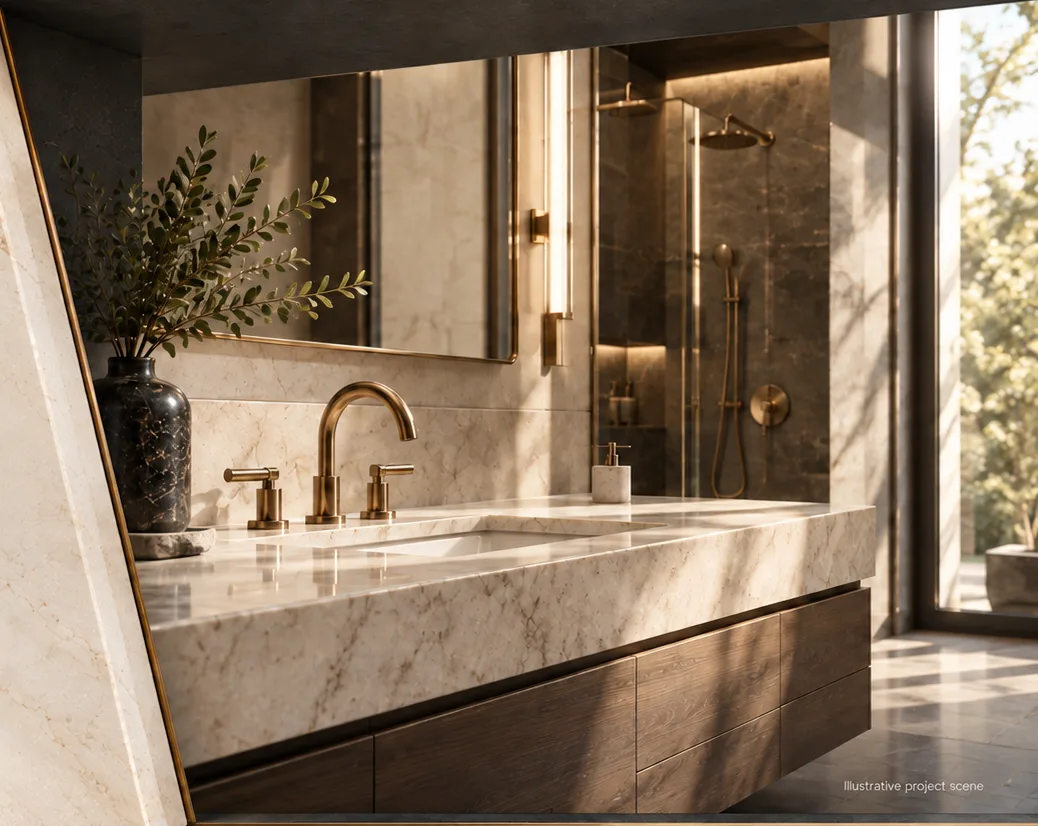
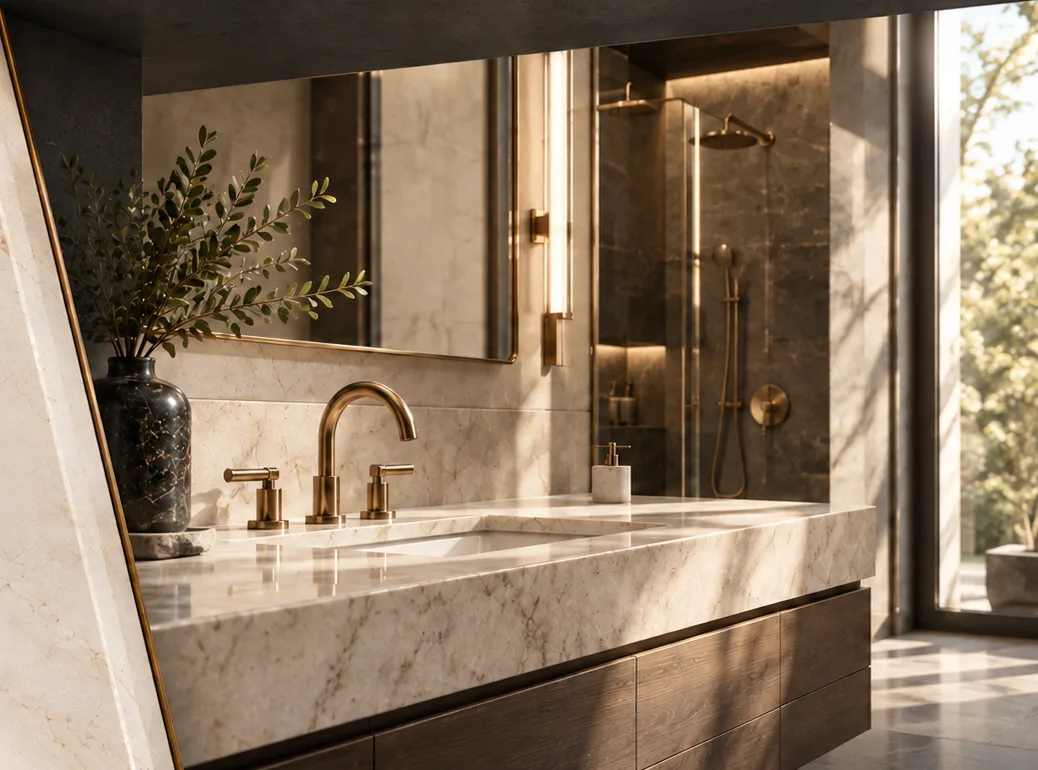
Refine mobile, wordmark, OG image and no-JS form fallback
- Transparent wordmark (colour-to-alpha vs. the original stone) for UI surfaces
- OG image from the approved logo area at its native position
- Inquiry API accepts urlencoded no-JS posts and redirects with a status
- Mobile call bar waits until the hero scrolls away on Home
- Standard section: copy before image on mobile; crop out baked caption
- Stock photography toned to the palette; looser reveal threshold

diff --git a/app/api/inquiry/route.ts b/app/api/inquiry/route.ts
@@ -1,5 +1,5 @@
-import { company } from "../../../content/company";
-import { formatInquiryEmail, isLikelySpam, validateInquiry } from "../../../lib/inquiry";
+import { company } from "@/content/company";
+import { formatInquiryEmail, isLikelySpam, validateInquiry } from "@/lib/inquiry";
 
 export const runtime = "nodejs";
 
@@ -39,6 +39,14 @@ function json(status: number, body: Record<string, unknown>): Response {
   return Response.json(body, { status, headers: { "Cache-Control": "no-store" } });
 }
 
+type Outcome = "sent" | "invalid" | "error" | "unavailable" | "limited";
+
+/** No-JS form posts get a redirect back to /contact with a status, never raw JSON. */
+function redirectBack(request: Request, outcome: Outcome): Response {
+  const url = new URL(`/contact?status=${outcome}#request`, request.url);
+  return Response.redirect(url, 303);
+}
+
 /** Reads the body as text, giving up (null) once it exceeds `limit` bytes. */
 async function readCapped(request: Request, limit: number): Promise<string | null> {
   if (!request.body) return "";
@@ -65,38 +73,52 @@ async function readCapped(request: Request, limit: number): Promise<string | nul
 }
 
 export async function POST(request: Request): Promise<Response> {
+  const contentType = (request.headers.get("content-type") ?? "").trim();
+  // The form posts JSON via fetch; without JavaScript the browser posts urlencoded.
+  const isFormPost = /^application\/x-www-form-urlencoded\b/i.test(contentType);
+  const fail = (status: number, outcome: Outcome, body: Record<string, unknown>) =>
+    isFormPost ? redirectBack(request, outcome) : json(status, body);
+
   const apiKey = process.env.RESEND_API_KEY;
   const to = process.env.INQUIRY_TO_EMAIL;
-  if (!apiKey || !to) return json(503, { ok: false, error: UNAVAILABLE });
+  if (!apiKey || !to) return fail(503, "unavailable", { ok: false, error: UNAVAILABLE });
 
   if (rateLimited(clientIp(request), Date.now())) {
-    return json(429, { ok: false, error: `Too many requests. Please try again later or call ${company.phone.display}.` });
+    return fail(429, "limited", {
+      ok: false,
+      error: `Too many requests. Please try again later or call ${company.phone.display}.`,
+    });
   }
 
-  const contentType = request.headers.get("content-type") ?? "";
-  if (!/^application\/json\b/i.test(contentType.trim())) {
+  if (!isFormPost && !/^application\/json\b/i.test(contentType)) {
     return json(415, { ok: false, error: "Requests must be sent as JSON." });
   }
 
   const declaredLength = Number(request.headers.get("content-length"));
   if (Number.isFinite(declaredLength) && declaredLength > MAX_BODY_BYTES) {
-    return json(413, { ok: false, error: "Your request is too large." });
+    return fail(413, "invalid", { ok: false, error: "Your request is too large." });
   }
   const bodyText = await readCapped(request, MAX_BODY_BYTES);
-  if (bodyText === null) return json(413, { ok: false, error: "Your request is too large." });
+  if (bodyText === null) return fail(413, "invalid", { ok: false, error: "Your request is too large." });
 
   let raw: unknown;
-  try {
-    raw = JSON.parse(bodyText);
-  } catch {
-    return json(400, { ok: false, error: "We couldn't read your request." });
+  if (isFormPost) {
+    // A no-JS visitor can't report how long the form was open, so this path
+    // relies on the honeypot alone for spam filtering.
+    raw = { ...Object.fromEntries(new URLSearchParams(bodyText)), elapsedMs: 3000 };
+  } else {
+    try {
+      raw = JSON.parse(bodyText);
+    } catch {
+      return json(400, { ok: false, error: "We couldn't read your request." });
+    }
   }
 
   // Don't tip off bots: pretend success, send nothing.
-  if (isLikelySpam(raw)) return json(200, { ok: true });
+  if (isLikelySpam(raw)) return isFormPost ? redirectBack(request, "sent") : json(200, { ok: true });
 
   const result = validateInquiry(raw);
-  if (!result.ok) return json(400, { ok: false, errors: result.errors });
+  if (!result.ok) return fail(400, "invalid", { ok: false, errors: result.errors });
 
   const { subject, text } = formatInquiryEmail(result.data);
   try {
@@ -116,13 +138,13 @@ export async function POST(request: Request): Promise<Response> {
     if (!response.ok) {
       // Status only: never log the customer's details or the API key.
       console.error(`[inquiry] Resend responded with status ${response.status}`);
-      return json(502, { ok: false, error: SEND_FAILED });
+      return fail(502, "error", { ok: false, error: SEND_FAILED });
     }
   } catch (error) {
     const reason = error instanceof Error ? error.name : "UnknownError";
     console.error(`[inquiry] Resend request failed: ${reason}`);
-    return json(502, { ok: false, error: SEND_FAILED });
+    return fail(502, "error", { ok: false, error: SEND_FAILED });
   }
 
-  return json(200, { ok: true });
+  return isFormPost ? redirectBack(request, "sent") : json(200, { ok: true });
 }

diff --git a/app/contact/page.tsx b/app/contact/page.tsx
@@ -19,12 +19,22 @@ const NEXT_STEPS = [
   "You get a clear scope before any work begins.",
 ];
 
+const STATUS_NOTICES: Record<string, { tone: "ok" | "warn"; text: string }> = {
+  sent: { tone: "ok", text: "Request received. We’ll be in touch shortly. For anything urgent, please call." },
+  invalid: { tone: "warn", text: "Some details were missing or didn’t look right. Please check the form, or call us." },
+  error: { tone: "warn", text: "We couldn’t send your request just now. Please call us instead." },
+  unavailable: { tone: "warn", text: "Online requests aren’t available right now. Please call or email us." },
+  limited: { tone: "warn", text: "Too many requests from this connection. Please call us instead." },
+};
+
 type Props = {
   searchParams: Promise<{ [key: string]: string | string[] | undefined }>;
 };
 
 export default async function ContactPage({ searchParams }: Props) {
-  const { service } = await searchParams;
+  const { service, status } = await searchParams;
+  // Set by /api/inquiry after a no-JavaScript form post.
+  const notice = typeof status === "string" ? STATUS_NOTICES[status] : undefined;
   const defaultService = typeof service === "string" ? getService(service)?.slug : undefined;
 
   // The form is only rendered when /api/inquiry can actually deliver it: the route
@@ -69,7 +79,13 @@ export default async function ContactPage({ searchParams }: Props) {
             </p>
           </section>
 
-          <section className={styles.formCol} aria-labelledby="contact-form-title">
+          <section id="request" className={styles.formCol} aria-labelledby="contact-form-title">
+            {notice ? (
+              <p role="status" className={notice.tone === "ok" ? styles.noticeOk : styles.noticeWarn}>
+                {notice.text}{" "}
+                <a href={company.phone.href}>{company.phone.display}</a>
+              </p>
+            ) : null}
             {canSendInquiries ? (
               <>
                 <h2 id="contact-form-title" className="display-m">

diff --git a/components/site/MobileCallBar.tsx b/components/site/MobileCallBar.tsx
@@ -1,12 +1,34 @@
+"use client";
+
+import { usePathname } from "next/navigation";
+import { useEffect, useState } from "react";
 import { company } from "@/content/company";
 import { PhoneIcon } from "@/components/ui/Icon";
 import { TrackedLink } from "@/components/ui/TrackedLink";
 import styles from "./MobileCallBar.module.css";
 
-/** Persistent mobile conversion bar: one-tap call plus request service. */
+/**
+ * Persistent mobile conversion bar: one-tap call plus request service.
+ * On the homepage it waits until the hero (which has the same actions) has
+ * scrolled away; everywhere else it is always present.
+ */
 export function MobileCallBar() {
+  const pathname = usePathname();
+  const isHome = pathname === "/";
+  const [pastHero, setPastHero] = useState(false);
+
+  useEffect(() => {
+    if (!isHome) return;
+    const onScroll = () => setPastHero(window.scrollY > window.innerHeight * 0.55);
+    onScroll();
+    window.addEventListener("scroll", onScroll, { passive: true });
+    return () => window.removeEventListener("scroll", onScroll);
+  }, [isHome]);
+
+  const hidden = isHome && !pastHero;
+
   return (
-    <div className={styles.bar} role="region" aria-label="Quick contact">
+    <div className={styles.bar} role="region" aria-label="Quick contact" data-hidden={hidden ? "" : undefined} inert={hidden}>
       <TrackedLink href={company.phone.href} event="phone_click" placement="mobile-bar" className={styles.call}>
         <PhoneIcon />
         <span>

diff --git a/components/home/Hero.tsx b/components/home/Hero.tsx
@@ -30,7 +30,9 @@ export function Hero() {
         <h1 id="hero-title" className={styles.title}>
           <Wordmark surface="native" priority className={styles.wordmark} />
         </h1>
-        <p className={styles.tagline}>Exceptional plumbing. Built on trust.</p>
+        <p className={styles.tagline}>
+          Exceptional plumbing. <span className={styles.taglineEnd}>Built on trust.</span>
+        </p>
         <p className={styles.serviceLine}>
           Residential, commercial &amp; emergency plumbing in {company.region}.
         </p>

diff --git a/app/contact/page.module.css b/app/contact/page.module.css
@@ -158,3 +158,15 @@
 @media (max-width: 380px) {
   .bigPhone { font-size: var(--step-3); }
 }
+
+/* No-JS submission result banner */
+.noticeOk,
+.noticeWarn {
+  margin-bottom: 1.5rem;
+  padding: 1rem 1.25rem;
+  border-left: 2px solid var(--success);
+  background: #2f5d3a12;
+  color: var(--ink);
+}
+.noticeWarn { border-left-color: var(--danger); background: #9b2c1f10; }
+.noticeOk a, .noticeWarn a { font-weight: 600; }

diff --git a/components/site/MobileCallBar.module.css b/components/site/MobileCallBar.module.css
@@ -13,6 +13,14 @@
     border-top: 1px solid var(--line);
     backdrop-filter: blur(12px);
     -webkit-backdrop-filter: blur(12px);
+    transition:
+      transform var(--dur-2) var(--ease-out),
+      opacity var(--dur-2) var(--ease-out);
+  }
+
+  .bar[data-hidden] {
+    transform: translateY(110%);
+    opacity: 0;
   }
 
   :global(body) { padding-bottom: calc(72px + env(safe-area-inset-bottom)); }

diff --git a/content/images.ts b/content/images.ts
@@ -12,7 +12,7 @@ export const images: Record<ImageKey, SiteImage> = {
   standardBathroom: {
     src: "/images/illustrative/standard-bathroom.webp",
     width: 1038,
-    height: 826,
+    height: 770,
     alt: "Warm stone vanity with a brushed-brass faucet, large mirror and a glass-enclosed shower.",
     illustrative: true,
     credit: generated,

diff --git a/components/home/Hero.module.css b/components/home/Hero.module.css
@@ -180,7 +180,7 @@
   .hero { padding-bottom: 6rem; }
   .stoneImg { object-position: 22% 50%; }
   .wordmark { width: min(94vw, 560px); }
-  .tagline { max-width: 15ch; }
+  .taglineEnd { display: block; }
   .actions { flex-direction: column; width: 100%; max-width: 360px; }
   .primary, .secondary { width: 100%; }
   .scroll { display: none; }

diff --git a/components/ui/RevealObserver.tsx b/components/ui/RevealObserver.tsx
@@ -30,7 +30,7 @@ export function RevealObserver() {
           }
         }
       },
-      { rootMargin: "0px 0px -8% 0px", threshold: 0.12 },
+      { rootMargin: "0px 0px -6% 0px", threshold: 0 },
     );
     items.forEach((el) => io.observe(el));
     return () => io.disconnect();

diff --git a/components/home/PocStandard.module.css b/components/home/PocStandard.module.css
@@ -168,6 +168,7 @@
 
   .slab {
     position: relative;
+    order: -1;
     width: 100%;
     filter: drop-shadow(0 14px 22px #00000052);
     z-index: 1;
